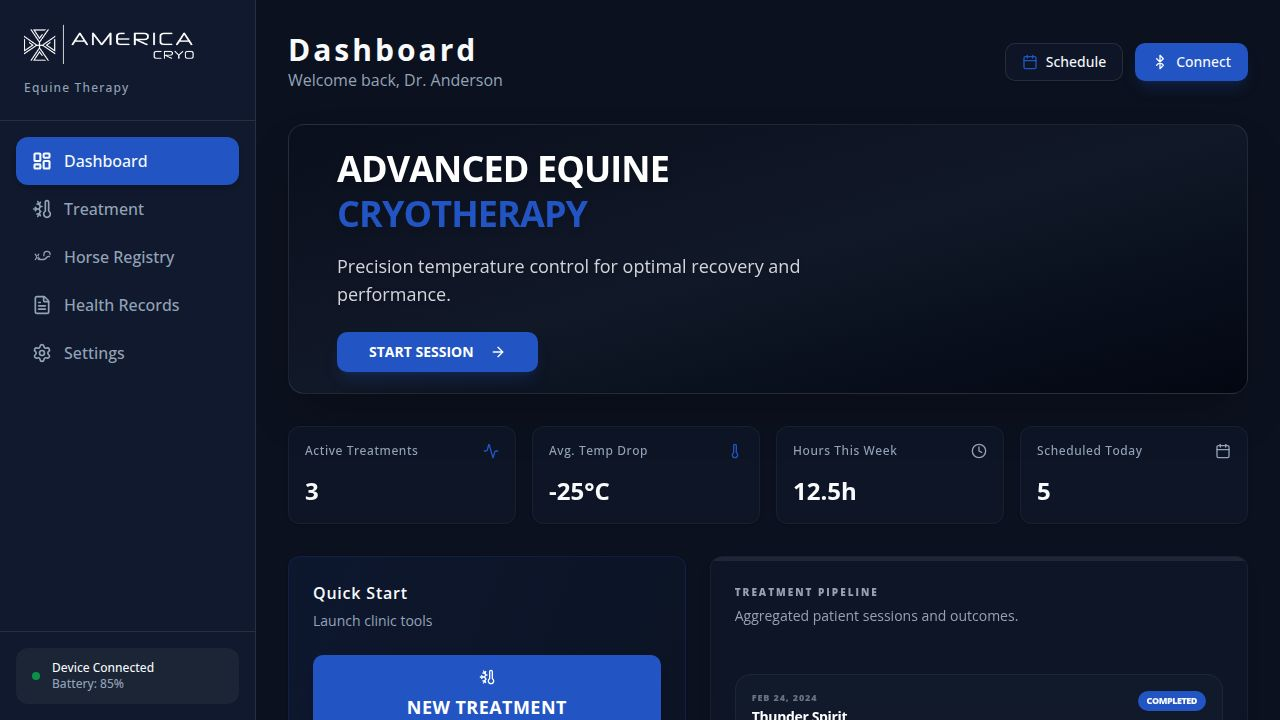
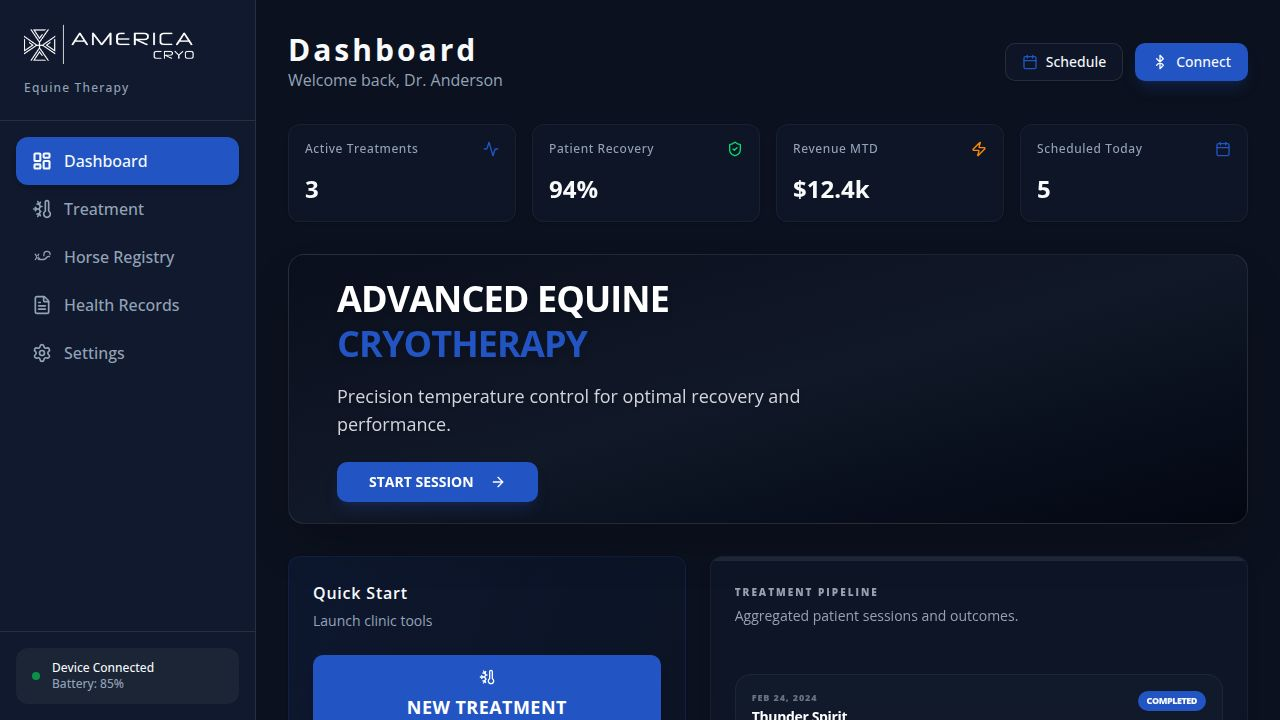
Update dashboard metrics for veterinary business management
Replaces generic dashboard metrics with veterinary-specific ones (Active Treatments, Patient Recovery, Revenue MTD, Scheduled Today) and repositions them below the welcome message in Dashboard.tsx.

Replit-Commit-Author: Agent
Replit-Commit-Session-Id: b880f816-af21-4f53-a397-1963df589222
Replit-Commit-Checkpoint-Type: full_checkpoint
Replit-Commit-Event-Id: 3f317f43-2885-4ca0-bc08-a92a6b1798e5
Replit-Commit-Screenshot-Url: https://storage.googleapis.com/screenshot-production-us-central1/ae2f9a35-1080-45a9-9c55-8bf065662328/b880f816-af21-4f53-a397-1963df589222/sN5E6PD
Replit-Helium-Checkpoint-Created: true

diff --git a/client/src/pages/Dashboard.tsx b/client/src/pages/Dashboard.tsx
@@ -185,6 +185,25 @@ export default function Dashboard() {
         </div>
       </header>
 
+      <div className="flex overflow-x-auto gap-4 pb-4 -mx-4 px-4 md:grid md:grid-cols-2 lg:grid-cols-4 md:overflow-visible md:pb-0 md:mx-0 md:px-0 no-scrollbar snap-x">
+        {[
+          { label: "Active Treatments", value: "3", icon: Activity, color: "text-primary" },
+          { label: "Patient Recovery", value: "94%", icon: ShieldCheck, color: "text-green-400" },
+          { label: "Revenue MTD", value: "$12.4k", icon: Zap, color: "text-orange-400" },
+          { label: "Scheduled Today", value: "5", icon: Calendar, color: "text-primary" },
+        ].map((stat, i) => (
+          <motion.div key={i} className="min-w-[160px] md:min-w-0 snap-center">
+            <Card className="hover:shadow-lg transition-shadow h-full bg-card/50 backdrop-blur border-white/5">
+              <CardHeader className="flex flex-row items-center justify-between space-y-0 pb-2 p-4">
+                <CardTitle className="text-xs font-medium text-muted-foreground whitespace-nowrap tracking-wider">{stat.label}</CardTitle>
+                <stat.icon className={`h-4 w-4 ${stat.color}`} />
+              </CardHeader>
+              <CardContent className="p-4 pt-0"><div className="text-2xl font-bold text-foreground">{stat.value}</div></CardContent>
+            </Card>
+          </motion.div>
+        ))}
+      </div>
+
       {/* Bluetooth Connection Dialog */}
       <Dialog open={isConnectOpen} onOpenChange={setIsConnectOpen}>
         <DialogContent className="sm:max-w-md bg-card border-white/10">
@@ -281,25 +300,6 @@ export default function Dashboard() {
             </div>
           </div>
         </div>
-      </div>
-
-      <div className="flex overflow-x-auto gap-4 pb-4 -mx-4 px-4 md:grid md:grid-cols-2 lg:grid-cols-4 md:overflow-visible md:pb-0 md:mx-0 md:px-0 no-scrollbar snap-x">
-        {[
-          { label: "Active Treatments", value: "3", icon: Activity, color: "text-primary" },
-          { label: "Avg. Temp Drop", value: "-25°C", icon: Thermometer, color: "text-primary" },
-          { label: "Hours This Week", value: "12.5h", icon: Clock, color: "text-muted-foreground" },
-          { label: "Scheduled Today", value: "5", icon: Calendar, color: "text-muted-foreground" },
-        ].map((stat, i) => (
-          <motion.div key={i} className="min-w-[160px] md:min-w-0 snap-center">
-            <Card className="hover:shadow-lg transition-shadow h-full bg-card/50 backdrop-blur border-white/5">
-              <CardHeader className="flex flex-row items-center justify-between space-y-0 pb-2 p-4">
-                <CardTitle className="text-xs font-medium text-muted-foreground whitespace-nowrap tracking-wider">{stat.label}</CardTitle>
-                <stat.icon className={`h-4 w-4 ${stat.color}`} />
-              </CardHeader>
-              <CardContent className="p-4 pt-0"><div className="text-2xl font-bold text-foreground">{stat.value}</div></CardContent>
-            </Card>
-          </motion.div>
-        ))}
       </div>
 
       <div className="grid gap-6 md:grid-cols-2 lg:grid-cols-7">
